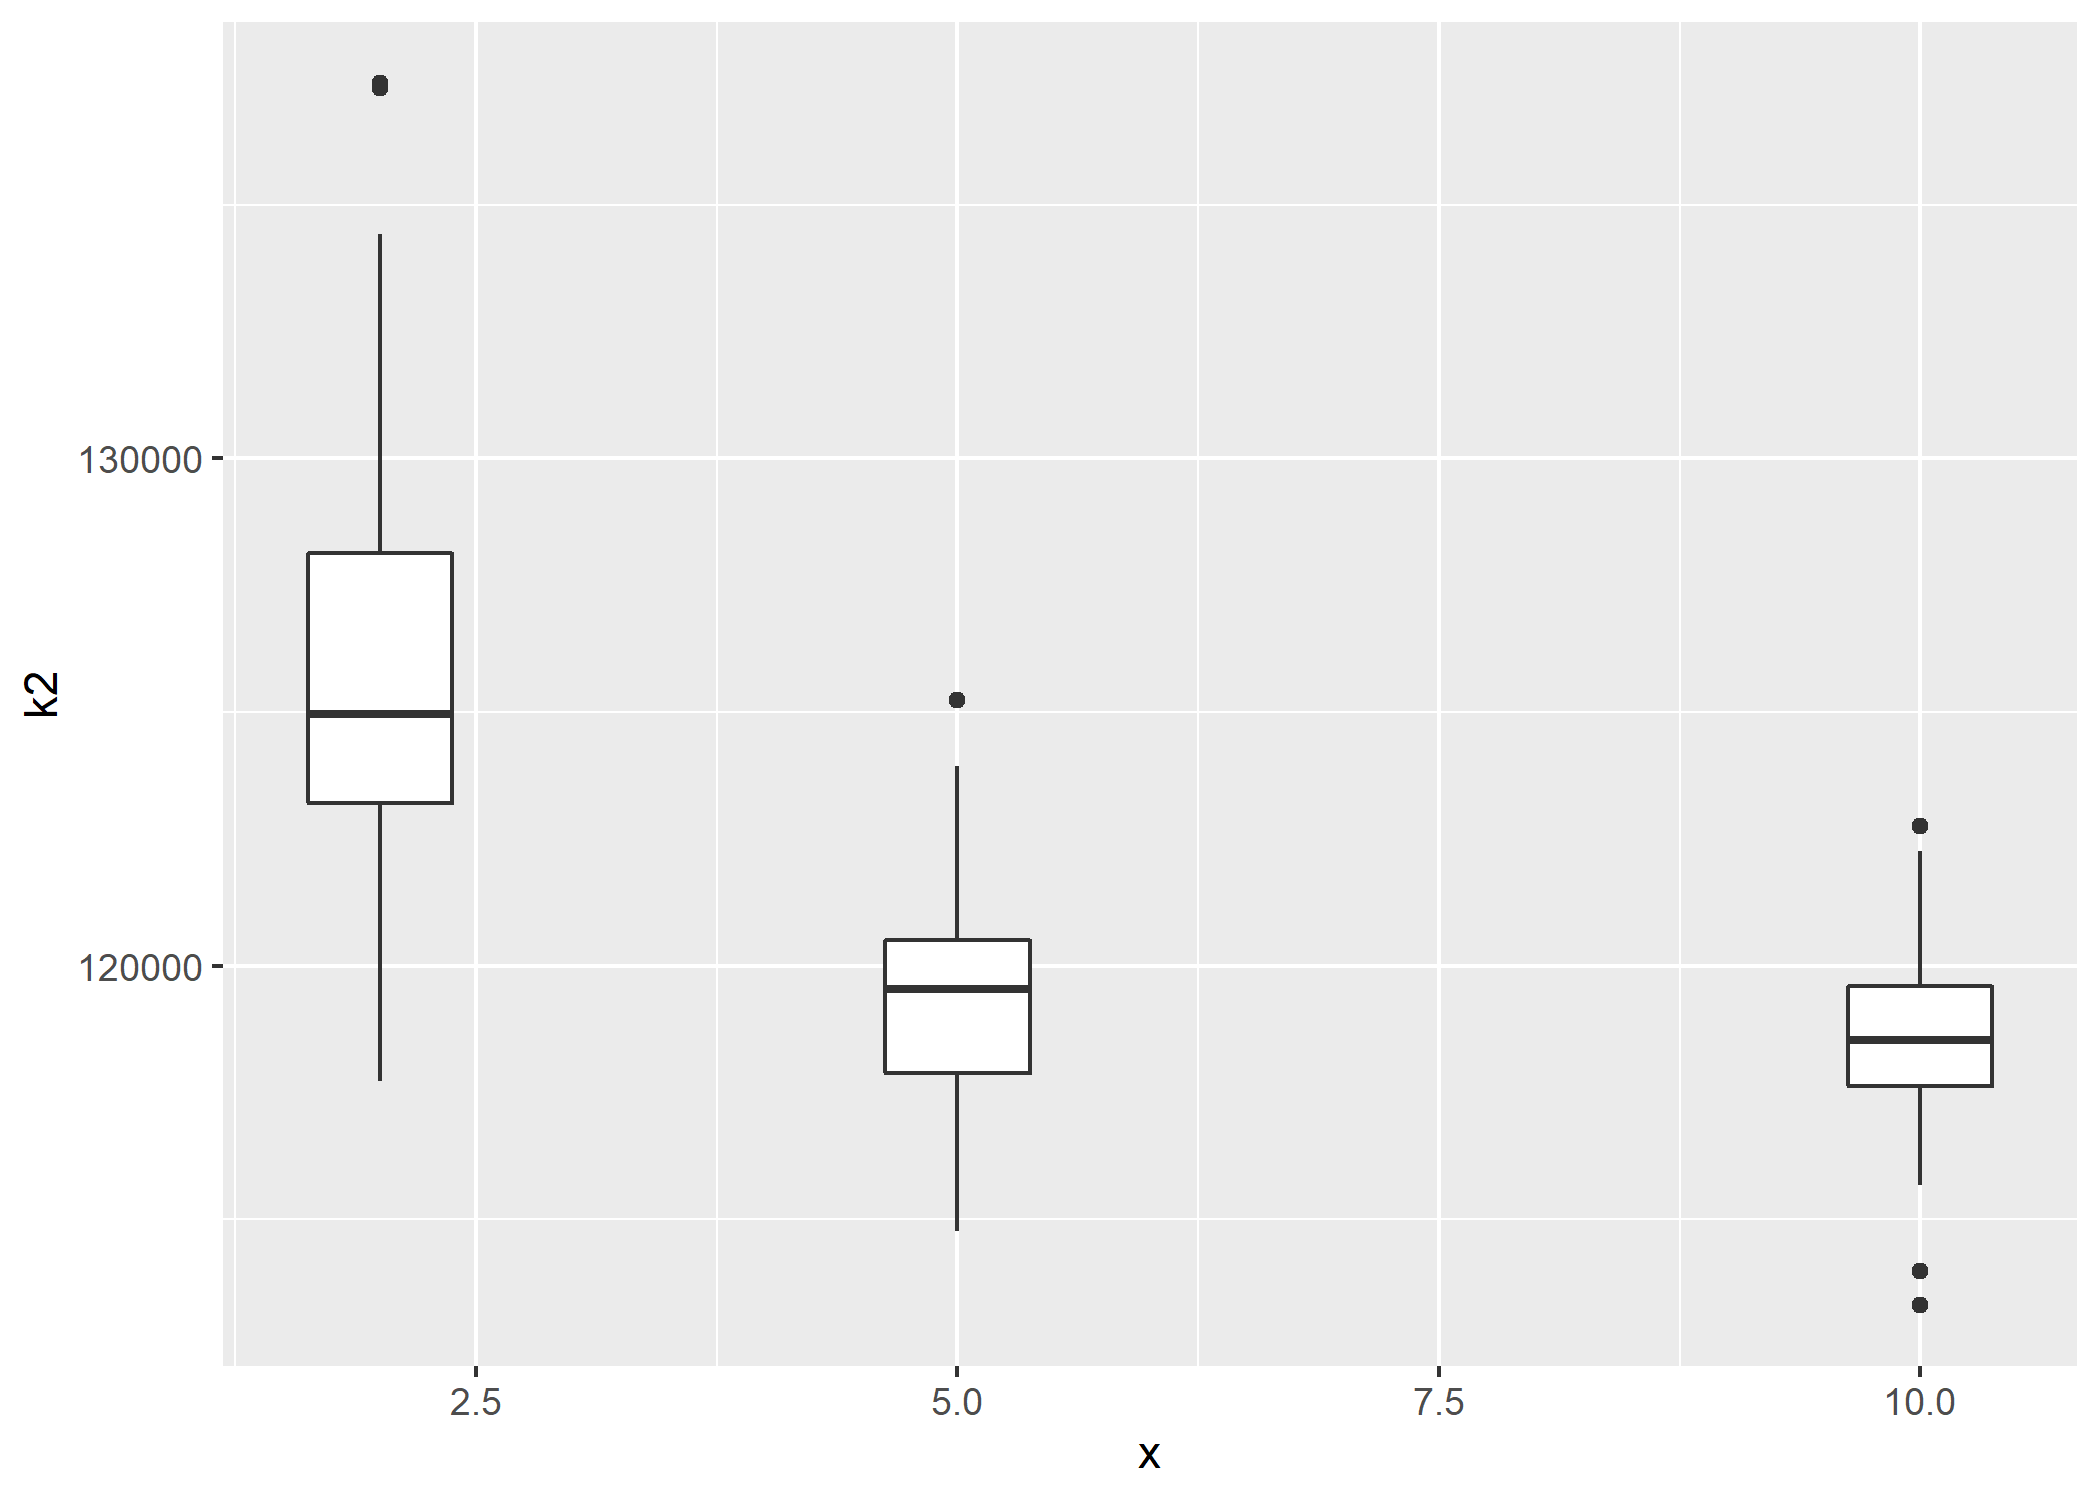
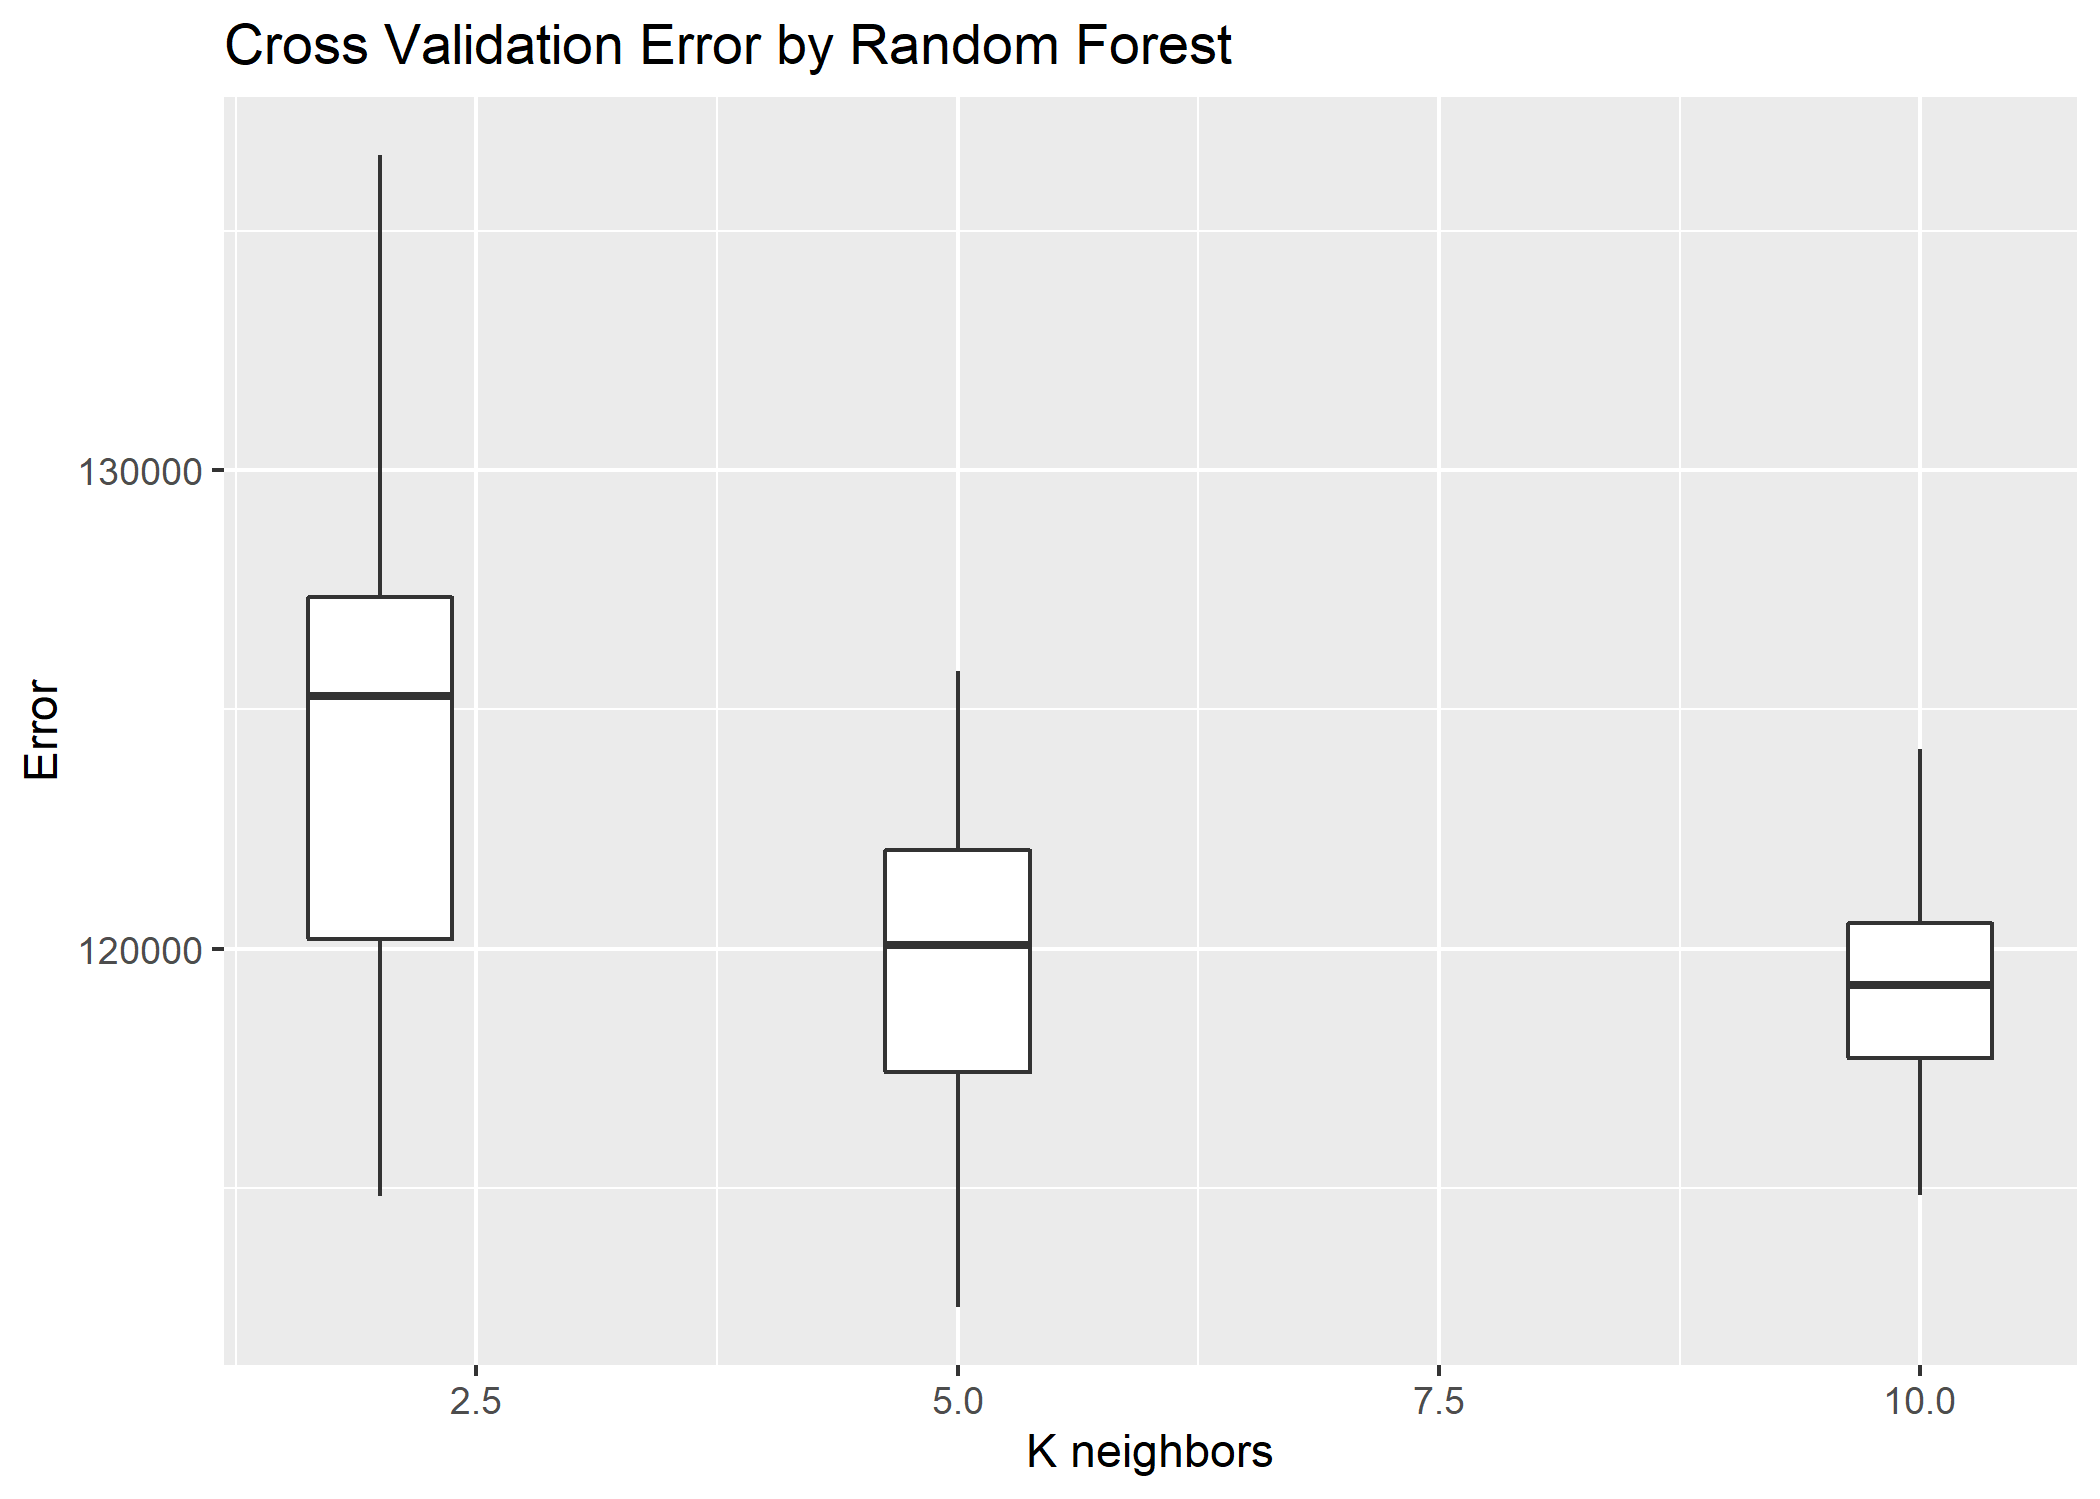
label boxplot

diff --git a/Analysis/analysis.html b/Analysis/analysis.html
@@ -417,9 +417,11 @@ colnames(all_statistics)&lt;- c(&quot;k2&quot;,&quot;k5&quot;,&quot;k10&quot;)
 boxplots &lt;- ggplot() + 
   geom_boxplot(all_statistics, mapping=aes(x=2, y=k2)) +
   geom_boxplot(all_statistics, mapping=aes(x=5, y=k5)) + 
-  geom_boxplot(all_statistics, mapping=aes(x=10, y=k10))
-
-ggsave(
+  geom_boxplot(all_statistics, mapping=aes(x=10, y=k10)) +
+  labs(x=&quot;K neighbors&quot;, y=&quot;Error&quot;, title=&quot;Cross Validation Error by Random Forest&quot;)
+boxplots</code></pre>
[1 lines of base64/hex data omitted]
+<pre class="r"><code>ggsave(
   &quot;boxplots.png&quot;,
   path = &quot;../Output/Figures&quot;
 )</code></pre>
